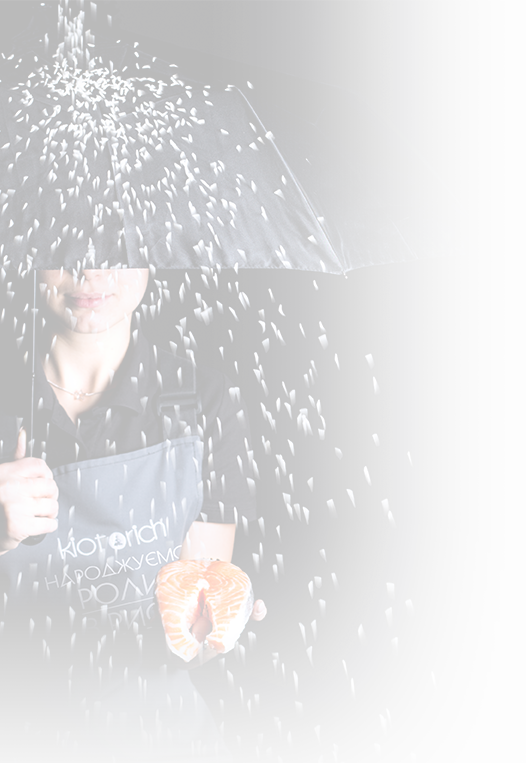
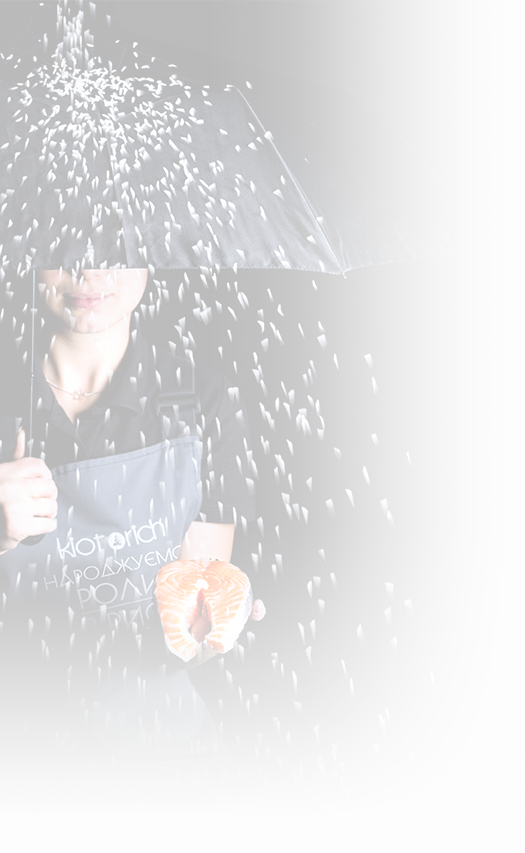
homework 12

diff --git a/index.html b/index.html
@@ -39,7 +39,8 @@
             <div class="header-contact-worktime">Працюємо з 11:00 до 23:00
         </div>
     </div>
-    </div>    
+    </div>   
+    <div style="clear:both;"></div> 
 </header>
 
 <div class="slide">
@@ -67,49 +68,49 @@
             <h2 class="main-products-title">Онлайн Замовлення</h2>
             <h4 class="main-products-subtitle">Просто бери з собою 2 страви, коли забираєшь сам!<br>Дуже крута акція.</h4>
             <section class="main-products-list">
-                <article class="main-products-box float-l">
+                <article class="main-products-box br bb float-l">
                     <div class="main-products-box-image"><a href="#"><img src="img/main-img1.png"></a></div>
                     <div class="main-products-box-name"><a href="#">Сети</a></div>
                     <a class="main-products-box-button" href="#">Переглянути</a>
                 </article><!--Каждый элемент кликабелен и обёрнут в "а" стрелка делается картинкой в устанавливается в ксс after (backgtoundsize: contain)-->
                 
-                <article class="main-products-box float-l">
+                <article class="main-products-box br bb float-l">
                     <div class="main-products-box-image"><a href="#"><img src="img/main-img2.png"></a></div>
                     <div class="main-products-box-name"><a href="#">Роли</a></div>
                     <a class="main-products-box-button" href="#">Переглянути</a>
                 </article>
 
-                <article class="main-products-box float-l">
+                <article class="main-products-box br bb float-l">
                     <div class="main-products-box-image"><a href="#"><img src="img/main-img3.png"></a></div>
                     <div class="main-products-box-name"><a href="#">Супи</a></div>
                     <a class="main-products-box-button" href="#">Переглянути</a>
                 </article>
-                <article class="main-products-box float-l">
+                <article class="main-products-box br bb float-l">
                     <div class="main-products-box-image"><a href="#"><img src="img/main-img-udonu.png"></a></div>
                     <div class="main-products-box-name"><a href="#">Удони</a></div>
                     <a class="main-products-box-button" href="#">Переглянути</a>
                 </article>
-                <article class="main-products-box float-l">
+                <article class="main-products-box bb float-l">
                         <div class="main-products-box-image"><a href="#"><img src="img/main-img-udonu.png"></a></div>
                         <div class="main-products-box-name"><a href="#">Удони</a></div>
                         <a class="main-products-box-button" href="#">Переглянути</a>
                 </article>
-                <article class="main-products-box float-l">
+                <article class="main-products-box br float-l">
                         <div class="main-products-box-image"><a href="#"><img src="img/main-img-4.png"></a></div>
                         <div class="main-products-box-name"><a href="#">Садати</a></div>
                         <a class="main-products-box-button" href="#">Переглянути</a>
                 </article>
-                <article class="main-products-box float-l">
+                <article class="main-products-box br float-l">
                         <div class="main-products-box-image"><a href="#"><img src="img/main-img-5.png"></a></div>
                         <div class="main-products-box-name"><a href="#">Гарячі страви</a></div>
                         <a class="main-products-box-button" href="#">Переглянути</a>
                 </article>
-                <article class="main-products-box float-l">
+                <article class="main-products-box br float-l">
                         <div class="main-products-box-image"><a href="#"><img src="img/main-img-6.png"></a></div>
                         <div class="main-products-box-name"><a href="#">Інші страви</a></div>
                         <a class="main-products-box-button" href="#">Переглянути</a>
                 </article>
-                <article class="main-products-box float-l">
+                <article class="main-products-box br float-l">
                         <div class="main-products-box-image"><a href="#"><img src="img/main-img7.png"></a></div>
                         <div class="main-products-box-name"><a href="#">Десерти</a></div>
                         <a class="main-products-box-button" href="#">Переглянути</a>
@@ -127,28 +128,25 @@
             
             <ul class="main-news-list">
                 <li>    
-                    <div class="main-news-image float-l"><a href="#"><img src="img/news1.png"></a></div><!--a нужно задать display:block-->
-                    <div class="main-news-subtitle "><a href="#">Наша спецпропозиція: Villa Krim в подарунок</a></div>
-                    <div class="main-news-calendar float-l"><img src="img/calendar.png"></div>
-                    <div class="main-news-date">12.12.2018</div>
+                    <div class="main-news-image"><a href="#"><img src="img/news1.png"></a></div>
+                    <div class="main-news-subtitle a"><a href="#">Наша спецпропозиція: Villa Krim в подарунок</a></div>
+                    <div class="main-news-date"><img src="img/calendar.png">12.12.2018</div>
                     <div class="main-news-text">Суші-бар «Kioto Rich» - успішний проект 2009 року, зустрічає гостей стравами японської, європейської, авторської кухнями. Невимушена, легка атмосфера, позитивна енергетика, підтримується оригінальним дизайном «industrial», панорамними вікнами, які відкривають динамічний пейзаж центру міста, традиційними японськими ритмами і lounge музикою.</div>
                     <a href="#" class="main-news-button">Детальніше</a>
                 </li>
                 <li>    
                     <div class="main-news-image float-l"><a href="#"><img src="img/news2.png"></a></div>
                     <div class="main-news-subtitle"><a href="#">Нове меню.<br>Вже скоро!</a></div>
-                    <div class="main-news-calendar float-l"><img src="img/calendar.png"></div>
-                    <div class="main-news-date">12.12.2018</div>
+                    <div class="main-news-date"><img src="img/calendar.png">12.12.2018</div>
                     <div class="main-news-text">Свята, що наближаються надихають нас на нові прагнення і відкриття.І вже зовсім скоро ми презентуємо для наших гостей нове меню ресторану «KiotoRich».</div>
-                    <a href="#" class="main-news-button float-r">Детальніше</a>
+                    <a href="#" class="main-news-button float-l">Детальніше</a>
                 </li>
                 <li>    
                     <div class="main-news-image float-l"><a href="#"><img src="img/news3.png"></a></div>
                     <div class="main-news-subtitle"><a href="#">Уявляєте, ми разом<br>вже 8 років.</a></div>
-                    <div class="main-news-calendar float-l"><img src="img/calendar.png"></div>
-                    <div class="main-news-date">12.12.2018</div>
+                    <div class="main-news-date"><img src="img/calendar.png">12.12.2018</div>
                     <div class="main-news-text">За 8 років роботи нашого ресторану ви багаторазово показали нам своє добре ставлення. Ми вдячні вам за вашу довіру! </div>
-                    <a href="#" class="main-news-button float-r">Детальніше</a>
+                    <a href="#" class="main-news-button float-l">Детальніше</a>
                 </li>
             </ul>
         </section>
@@ -174,6 +172,7 @@
             <a href="tel:+380667735808">066-773-58 08</a>
         </section>
     </div>
+    <div style="clear:both;"></div>
 </footer>
     
 </body>

diff --git a/css/style.css b/css/style.css
@@ -45,18 +45,22 @@ ul{
     left: 50%;
     top: 50%;
 }
+.br{ 
+    border-right: transparent !Important;
+}
+.bb{    
+    border-bottom: transparent !Important;
+}
 
 
 /* HEADER */
 
 
-header .container{  
-    height: 90px;
-}
+
 
 .header-logo{  
     width: 207px;
-    margin: 13.5px auto;
+    margin: 15px auto;
 }
 
 .header-menu{   
@@ -75,12 +79,16 @@ header .container{
 }
 .header-social{ 
     width: 184px;
-    line-height: 90px;
     
+    padding-top: 34px;
+    
+}
+.header-social a img{   
+    vertical-align: middle;
 }
 .header-social a:first-child{  
     padding-right: 15px;
-    
+   
 }
 .header-social a:nth-child(2n){  
     padding: 0 15px;
@@ -97,7 +105,7 @@ header .container{
     width: 187px;
     height: 65px;
     text-align: right;
-    padding-top: 25px;
+    padding-top: 23px;
 }
 .header-contact-tel{    
     font-size: 22px;
@@ -115,7 +123,7 @@ header .container{
     height: 608px;
     background: url(../img/background.png) no-repeat center center;
     position: relative;
-
+    overflow: hidden;
 }
 
 .circle{    
@@ -130,7 +138,6 @@ header .container{
     top:50%;
     margin-top:-214px;
     text-align: center;
-    overflow: hidden;
     z-index: 1;
     
 }
@@ -179,19 +186,27 @@ header .container{
 
 /* MAIN */
 
+main{   
+    background: url(../img/tlbg.png) top left no-repeat,url(../img/trbg.png) top right no-repeat,url(../img/brbg.png) bottom right no-repeat,url(../img/blbg.png) bottom left no-repeat;
+}
 main .container{ 
     text-align: center;
 }
-.main-products-title{    
+.main-products-title{
+    margin-top: 0;
+    padding-top: 100px;    
     font-weight: 300;
     font-size: 42px;
 }
 .main-products-subtitle{    
     font-weight: 600;
     font-size: 18px;
+    line-height: 30px;
+    margin-bottom: 35px;
 }
 .main-products-list{    
     height: 750px;
+    background: #0f0f0f;
 }
 .main-products-box{ 
     position: relative;
@@ -247,33 +262,36 @@ main .container{
 /* FOOTER */
 
 footer { 
-    height: 191px;
+    padding-top: 50px;
     background-color: #282828;
-    
+    padding-bottom: 50px;
 }
 
 .footer-logo{   
     width: 207px;
-    padding: 50px 0 0;
     margin-right: 0;
     
 }
 .footer-info{   
     width: 245px;
-    height: 80px;
     font-size: 15px;
     font-weight:500;
     margin-left: 260px;
     text-align: center;
-    padding: 50px 0 0;
+    
+}
+address{    
+    font-style: inherit;
 }
 .footer-info-time{  
     padding: 10px;
 }
 
 .footer-info-social{    
-    
     margin: 15px 0 0 15px;
+}
+.footer-info-social a img{  
+    vertical-align: middle;
 }
 
 .footer-info-social a:first-child{  
@@ -292,7 +310,7 @@ footer {
 }
 
 .footer-phone{  
-    padding-top: 50px;
+    
     font-size: 22px;
     font-weight: 500;
     float: right;
@@ -306,68 +324,62 @@ footer {
 }
 
 .main-news{ 
-    margin-top: 155px;
+    margin-top: 110px;
     height: 865px;
 }
 
 .main-news-title{   
     font-size: 42px;
     font-weight: 300;
+    margin-bottom: 80px;
+  
 }
 .main-news-list{    
     text-align: left;
+    height: 480px;
 }
 
 .main-news-list li:first-child{ 
     width: 570px;
-    margin-right: 15px;
     float: left;
-    
+    margin-right: 31px;
 }
 .main-news-list li:nth-child(2n){ 
     width: 548px;
-    margin-left: 15px;
     float: left;
     margin-bottom: 25px;
 }
 .main-news-list li:last-child{  
     width: 548px;
     float: left;
-    margin-left: 15px;
+}
+.main-news-image{   
+    margin-right: 31px
 }
 .main-news-subtitle{    
     font-size: 18px;
     font-weight: 600;
-    
-    
 }
-.main-news-image{   
-    padding-right: 30px;
+a{ 
+    margin-top: 18px;
 }
-.main-news-calendar{ 
-    margin: 9px 0 ;   
-    
-}
-.main-news-date{   
-    margin: 12px 0 10px 20px; 
+.main-news-date {   
+    margin: 12px 0 12px 0; 
     font-size:  13px;
-    
-    
 }
-.main-news-text{  
-    margin-top: 10px; 
+.main-news-date img{    
+    padding-right: 6px;
+    vertical-align: top;
+}
+.main-news-text{   
     font-size: 13px;
     font-weight: 400; 
-    margin-bottom: 10px;
-    
+    margin-bottom: 33px;
 }
-.main-news-list li{    
-    position: relative;
-}
+
 .main-news-button{  
     font-weight: 400;
     font-size: 13px;
-    position: absolute;
     text-align: center;
     border-radius: 50px;
     background-color: rgb(243, 33, 33);
@@ -376,13 +388,9 @@ footer {
     width: 150px;
     z-index: 10;
     line-height: 43px;
-    margin-top: 12px;
-    
+    margin-top: 10px;
+
 }
-.float-r{   
-    margin-left: 300px;
-    margin-top: 35px;
-    
-}
+
 
   
